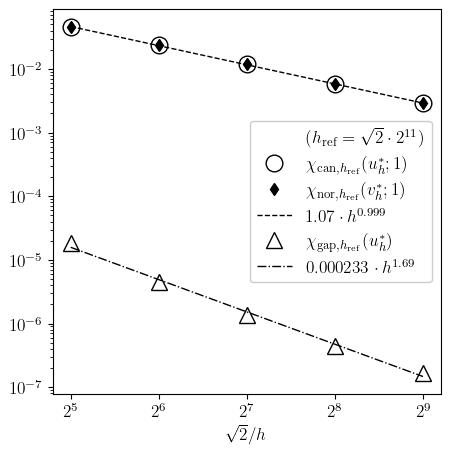
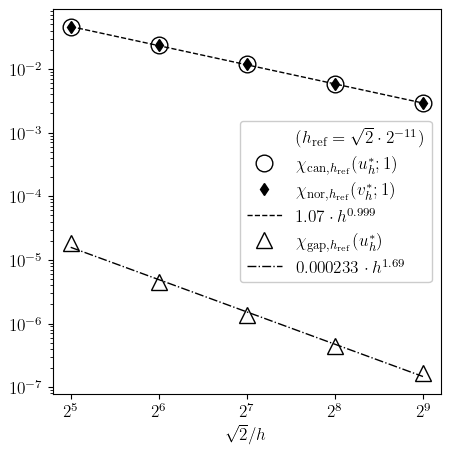
[jomi] Fixed n/ h conversion issue

Changed region(s): [[0.5289, 0.2775, 0.9333, 0.6167]]

diff --git a/code/lsqs_label.py b/code/lsqs_label.py
@@ -23,5 +23,5 @@ def lsqs_label(constant=0.0, rate=0.0, base=10.0, precision=3):
 	return r"${}\cdot {}^{}$".format(constant, base, "{"+ str(rate)+"}")
 
 def lsqs_label_base(rate=2, base=2, dim="\sqrt{2}\cdot"):
-	return r"(${}={}{}^{})$".format("h_{\mathrm{ref}}", dim, base, "{"+ str(rate)+"}")
+	return r"(${}={}{}^{})$".format("h_{\mathrm{ref}}", dim, base, "{"+ str(-rate)+"}")
 
